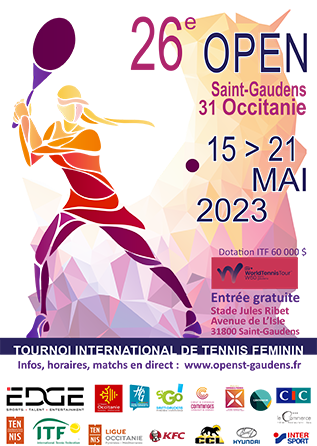
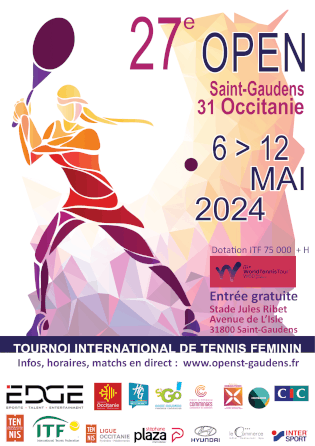
Update tournament dates

diff --git a/infos.html b/infos.html
@@ -80,7 +80,7 @@
 									<div class="col-12-mobile col-6 center"> 
 										<a href="/assets/css/images/poster.png" target="_blank"> <img loading="lazy" src="/assets/css/images/poster.png" alt="poster"></a> </div>
 									<div class="col-12-mobile col-6">
-										<h3>Tournoi 2022, 25e édition.</h3> <br>
+										<h3>Tournoi 2024, 27e édition.</h3> <br>
 										<p>Au vue de la situation sanitaire et des restrictions en vigueurs, le tournoi se déroulera dans le respect des règles sanitaires.</p> <br>
 										<h3>Infos Covid</h3> <br>
 										<p>Le tournoi se déroule dans le respect de règles sanitaires strictes. </p>
@@ -120,17 +120,17 @@
 							<div class="row">
 								<div class="col-12">
 									<article id="central" class="special center">
-										<h3>Du Vendredi 12 au Dimanche 14 Mai</h3>
+										<h3>Du Vendredi 03 au Dimanche 05 Mai</h3>
 										<p>Arrivée des joueuses et practice</p>
-										<h3>Dimanche 14 Mai</h3>
+										<h3>Dimanche 05 Mai</h3>
 										<p>Tirage au sort des tableaux</p>
-										<h3>Lundi 15 Mai</h3>
+										<h3>Lundi 06 Mai</h3>
 										<p>Qualifications</p>
-										<h3>Du Mardi 16 au Vendredi 19 mai</h3>
+										<h3>Du Mardi 07 au Vendredi 10 mai</h3>
 										<p>Tableaux simple et doubles</p>
-										<h3>Samedi 20 mai</h3>
+										<h3>Samedi 11 mai</h3>
 										<p>Demi-Finale simple et finale double</p>
-										<h3>Dimanche 21 mai</h3>
+										<h3>Dimanche 12 mai</h3>
 										<p>Finale simple</p>
 									</article>
 								</div>

diff --git a/en/infos.html b/en/infos.html
@@ -80,7 +80,7 @@
 									<div class="col-12-mobile col-6 center"> 
 										<a href="/assets/css/images/poster.png" target="_blank"> <img loading="lazy" src="/assets/css/images/poster.png" alt="poster"></a> </div>
 									<div class="col-12-mobile col-6">
-										<h3>Tournament 2022, 24th edition.</h3> <br>
+										<h3>Tournament 2024, 27th edition</h3> <br>
 										<p>Regarding current situation and restrictions, tournament will adapt to the current government recommandations.</p> <br>
 										<h3>Infos Covid</h3> <br>
 										<p>Tournament will strictly respect sanitary recommandations </p>
@@ -120,17 +120,17 @@
 							<div class="row">
 								<div class="col-12">
 									<article id="central" class="special center">
-										<h3>Friday 13th to Sunday 14th of may</h3>
+										<h3>Friday 03th to Sunday 05th of may</h3>
 										<p>Welcoming players</p>
-										<h3>Sunday 14th of May</h3>
+										<h3>Sunday 05th of May</h3>
 										<p>Random draw</p>
-										<h3>Monday 15th of May</h3>
+										<h3>Monday 06th of May</h3>
 										<p>Qualifications</p>
-										<h3>Tuesday 16th to Friday 19th of May</h3>
+										<h3>Tuesday 07th to Friday 10th of May</h3>
 										<p>Singles and Doubles main draw</p>
-										<h3>Saturday 20th of may</h3>
+										<h3>Saturday 11th of may</h3>
 										<p>Singles semi-finale & Doubles Finale</p>
-										<h3>Sunday 21th of may</h3>
+										<h3>Sunday 12th of may</h3>
 										<p>Singles Finale</p>
 									</article>
 								</div>

diff --git a/index.html b/index.html
@@ -25,7 +25,7 @@
 							<header>
 								<h1><a href="index.html" id="logo">Edge Open Saint-Gaudens <br>31 Occitanie <br>ITF 60.000$</a></h1>
 								<hr>
-								<p class="date">15 - 21 Mai 2023</p>
+								<p class="date">06 - 12 Mai 2024</p>
 							</header>
 							<footer>
 								<a href="#draws" class="button circled scrolly">Suiv.</a>
@@ -71,7 +71,7 @@
 						<header>
 							<h2>Tableaux et Programmes</h2>
 							<p>
-								<span>Les tableaux et programmes sont mis à jour chaque soir <br> Dernière maj : </span> 22/05/23 22:15
+								<span>Les tableaux et programmes sont mis à jour chaque soir <br> Dernière maj : </span> 15/04/24 22:31
 							</p>
 						</header>
 						<div class="row">

diff --git a/en/index.html b/en/index.html
@@ -25,7 +25,7 @@
 							<header>
 								<h1><a href="index.html" id="logo">Edge Open Saint-Gaudens <br>31 Occitanie <br>ITF 60.000$</a></h1>
 								<hr>
-								<p class="date">15 - 21 May 2023</p>
+								<p class="date">06 - 12 May 2024</p>
 							</header>
 							<footer>
 								<a href="#draws" class="button circled scrolly">Next</a>
@@ -71,7 +71,7 @@
 						<header>
 							<h2>Draws and OOP</h2>
 							<p>
-								<span>Draws and OOP are updated every night ! <br> Last update : </span> 22/05/23 22:15
+								<span>Draws and OOP are updated every night ! <br> Last update : </span> 15/04/24 22:31
 							</p>
 						</header>
 						<div class="row">

diff --git a/results.html b/results.html
@@ -80,7 +80,7 @@
 									<header>
 										<h2><a href="#">Tableaux</a></h2>
 										<p>
-											<i>Mise à jour le</i> <i> 22/05/23 22:15</i>
+											<i>Mise à jour le</i> <i> 15/04/24 22:31</i>
 										</p>
 									</header>
 									<div id="results"></div>

diff --git a/en/results.html b/en/results.html
@@ -80,7 +80,7 @@
 									<header>
 										<h2><a href="#">Draws</a></h2>
 										<p>
-											<i>Last update on</i> <i> 22/05/23 22:15</i>
+											<i>Last update on</i> <i> 15/04/24 22:31</i>
 										</p>
 									</header>
 									<div id="results"></div>
